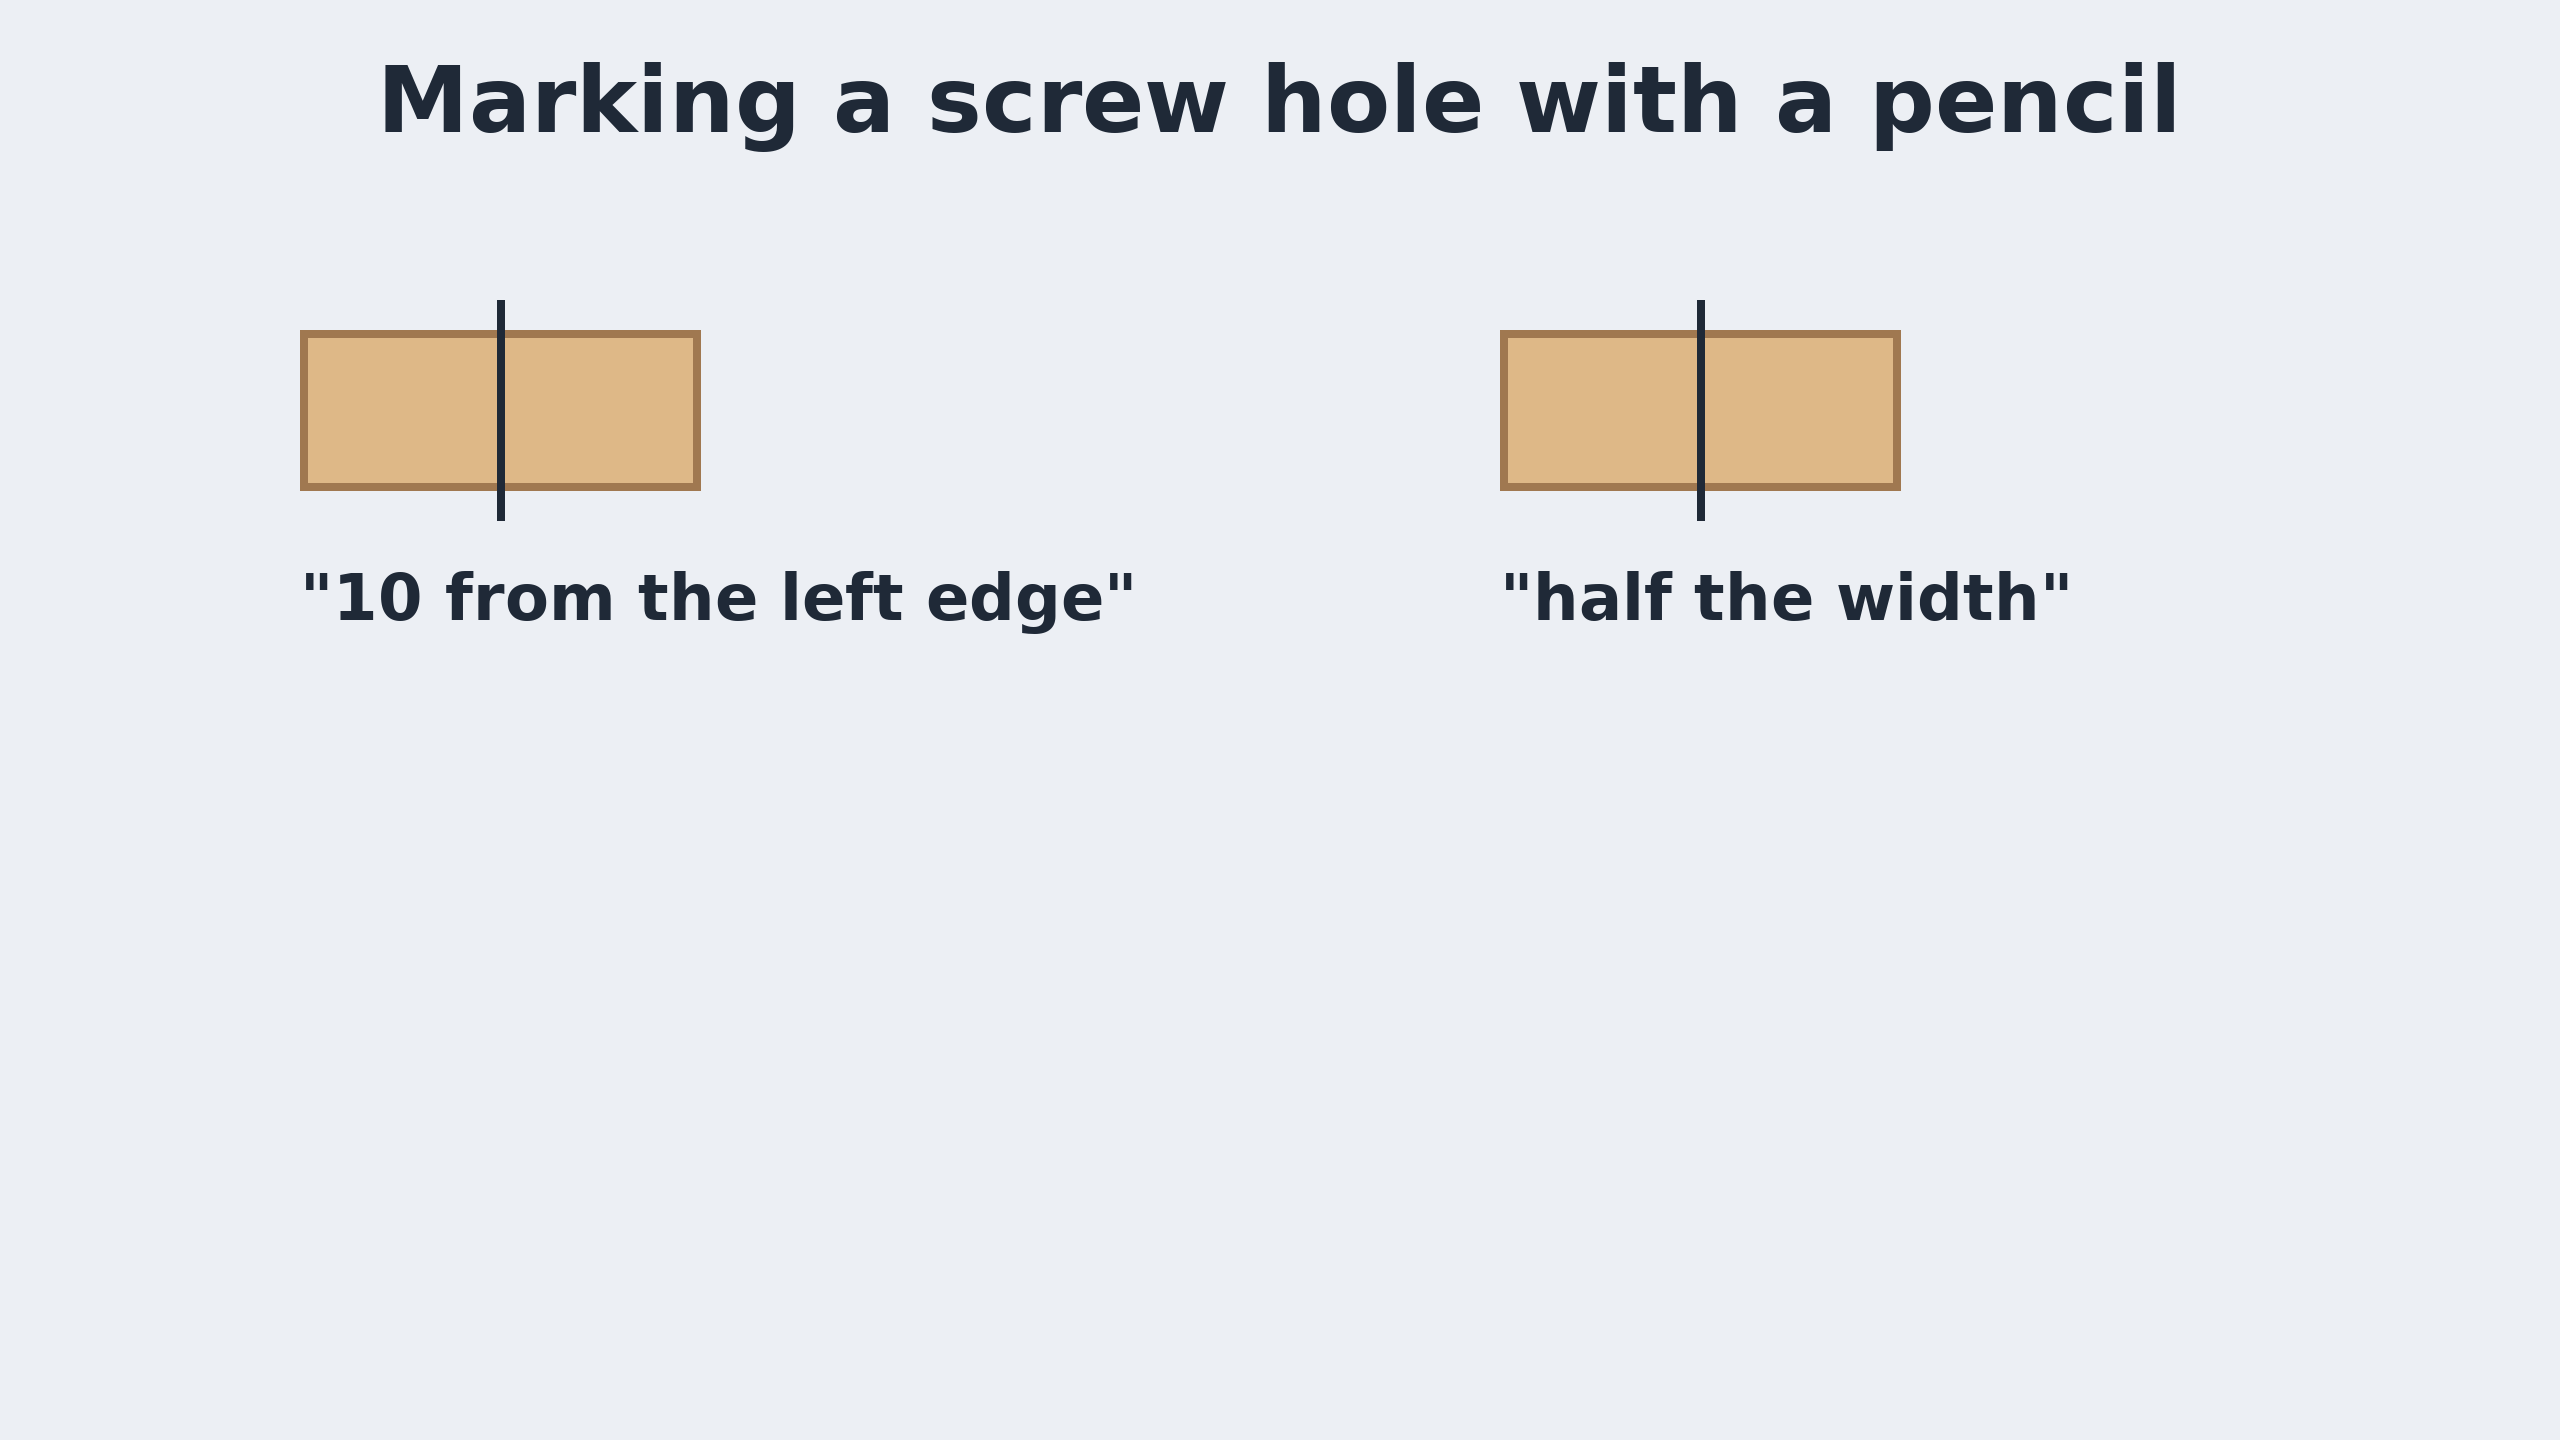
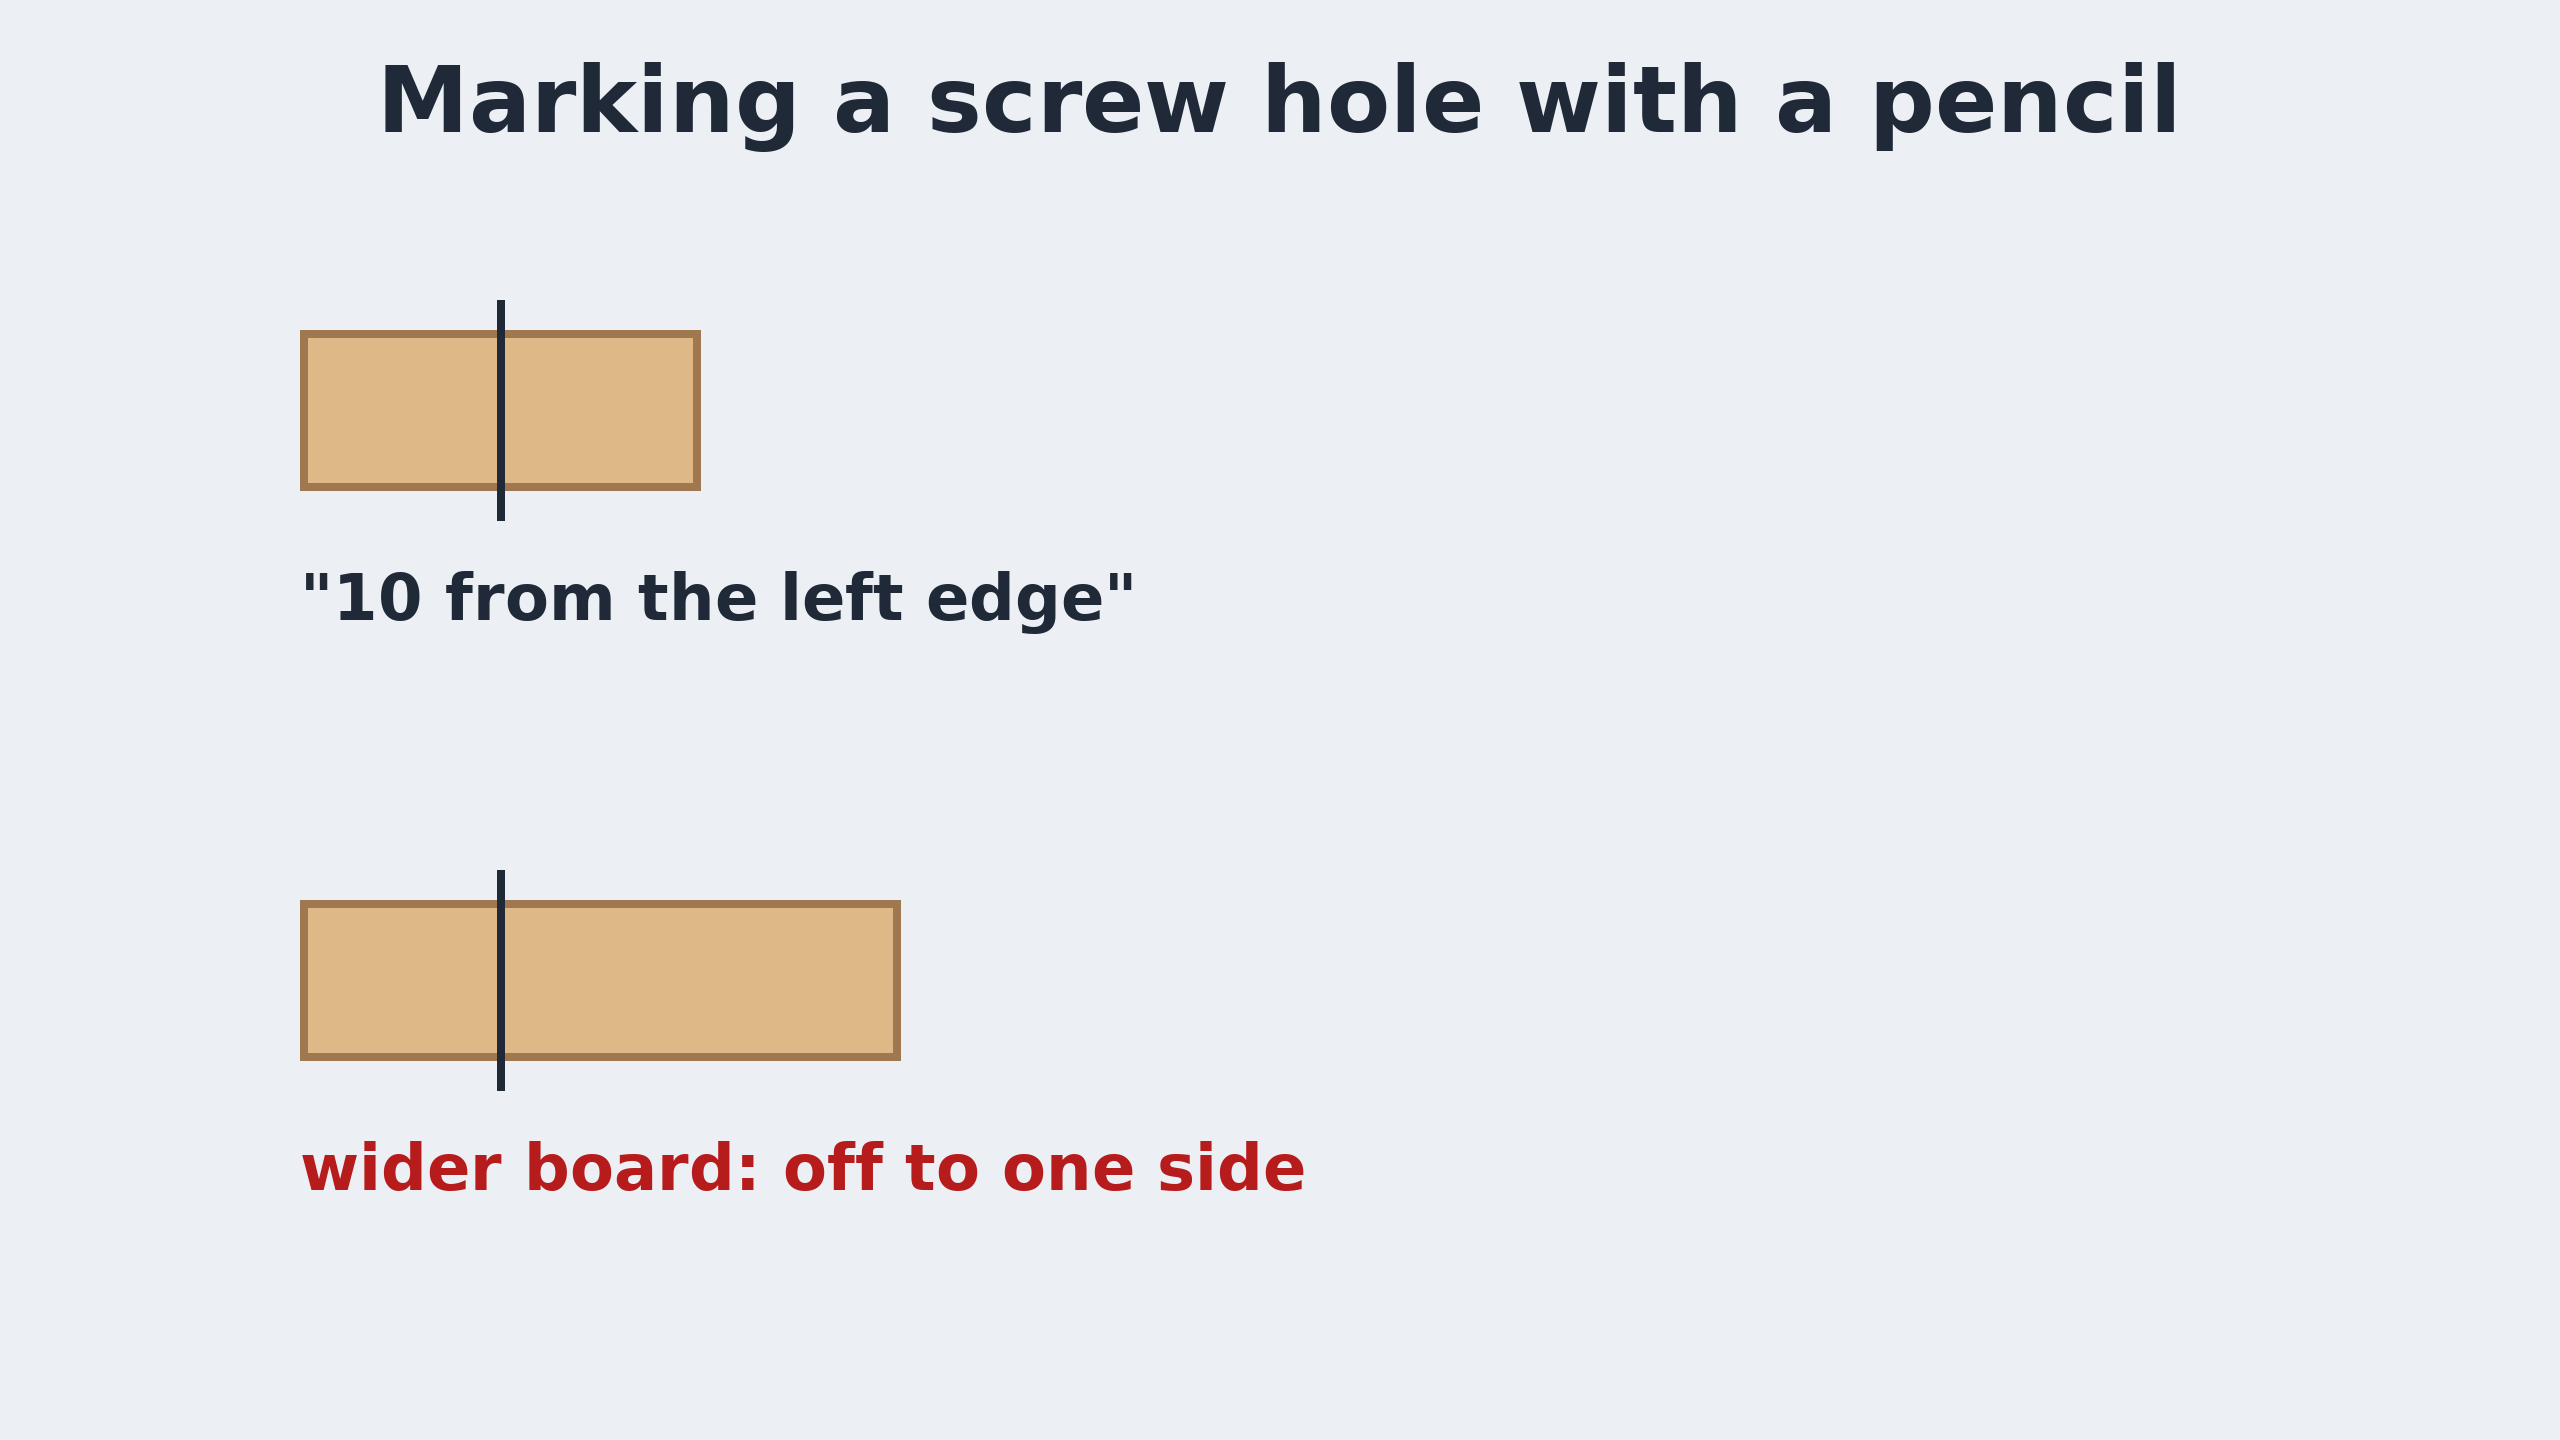
Lesson 4 cut 3 cards: the pencil marks in narration order (the wider board first, then half the width)

diff --git a/video/draw_l4.py b/video/draw_l4.py
@@ -70,21 +70,20 @@ def board(d, x0, y0, width_px, mark):
 
 
 def card_pencil(step):
-    """F3: step 1 'ten from the left edge', step 2 'half the width', step 3 both on a wider board."""
+    """F3, one step per sentence: 1 a mark "10 from the left edge"; 2 the same mark on a wider board, off to one side;
+    3 "half the width" on both boards, still in the middle; 4 the lesson 3 word (an expression)."""
     im, d = canvas(); header(d, 'Marking a screw hole with a pencil')
-    if step >= 1:
-        x = board(d, 300, 330, 400, 'left')
-        text(d, (300, 560), '"10 from the left edge"', 64, INK)
-        if step >= 3:
-            x2 = board(d, 300, 900, 600, 'left')
-            text(d, (300, 1130), 'wider board: off to one side', 64, RED)
+    board(d, 300, 330, 400, 'left')
+    text(d, (300, 560), '"10 from the left edge"', 64, INK)
     if step >= 2:
+        board(d, 300, 900, 600, 'left')
+        text(d, (300, 1130), 'wider board: off to one side', 64, RED)
+    if step >= 3:
         board(d, 1500, 330, 400, 'half')
         text(d, (1500, 560), '"half the width"', 64, INK)
-        if step >= 3:
-            board(d, 1400, 900, 600, 'half')
-            text(d, (1400, 1130), 'wider board: still in the middle', 64, GREEN)
-    if step >= 3:
+        board(d, 1400, 900, 600, 'half')
+        text(d, (1400, 1130), 'wider board: still in the middle', 64, GREEN)
+    if step >= 4:
         chip(d, (W / 2, 1320), 'lesson 3: a size written from names = an expression', 56, PAPER, INK, anchor='m')
     save(im, f'card-pencil-{step}.png')
 
@@ -221,7 +220,7 @@ if __name__ == '__main__':
         card_compare()
     else:
         card_today('hole'); card_today('fillet')
-        for i in (1, 2, 3):
+        for i in (1, 2, 3, 4):
             card_pencil(i)
         for i in (1, 2, 3, 4):
             card_rules(i)
